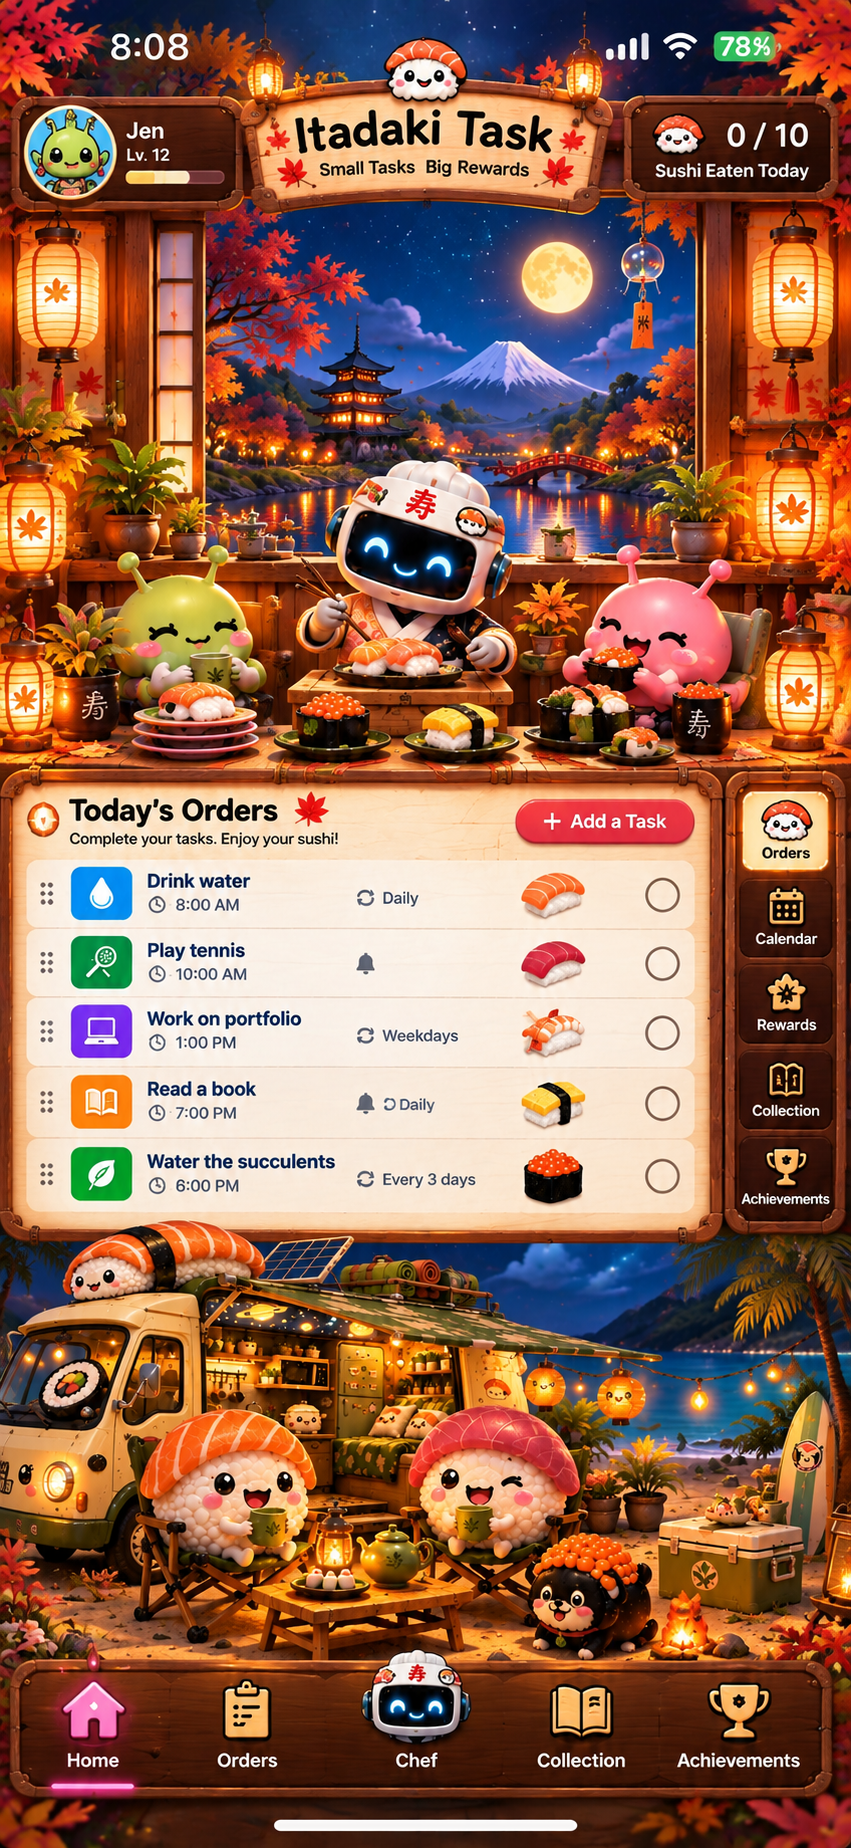
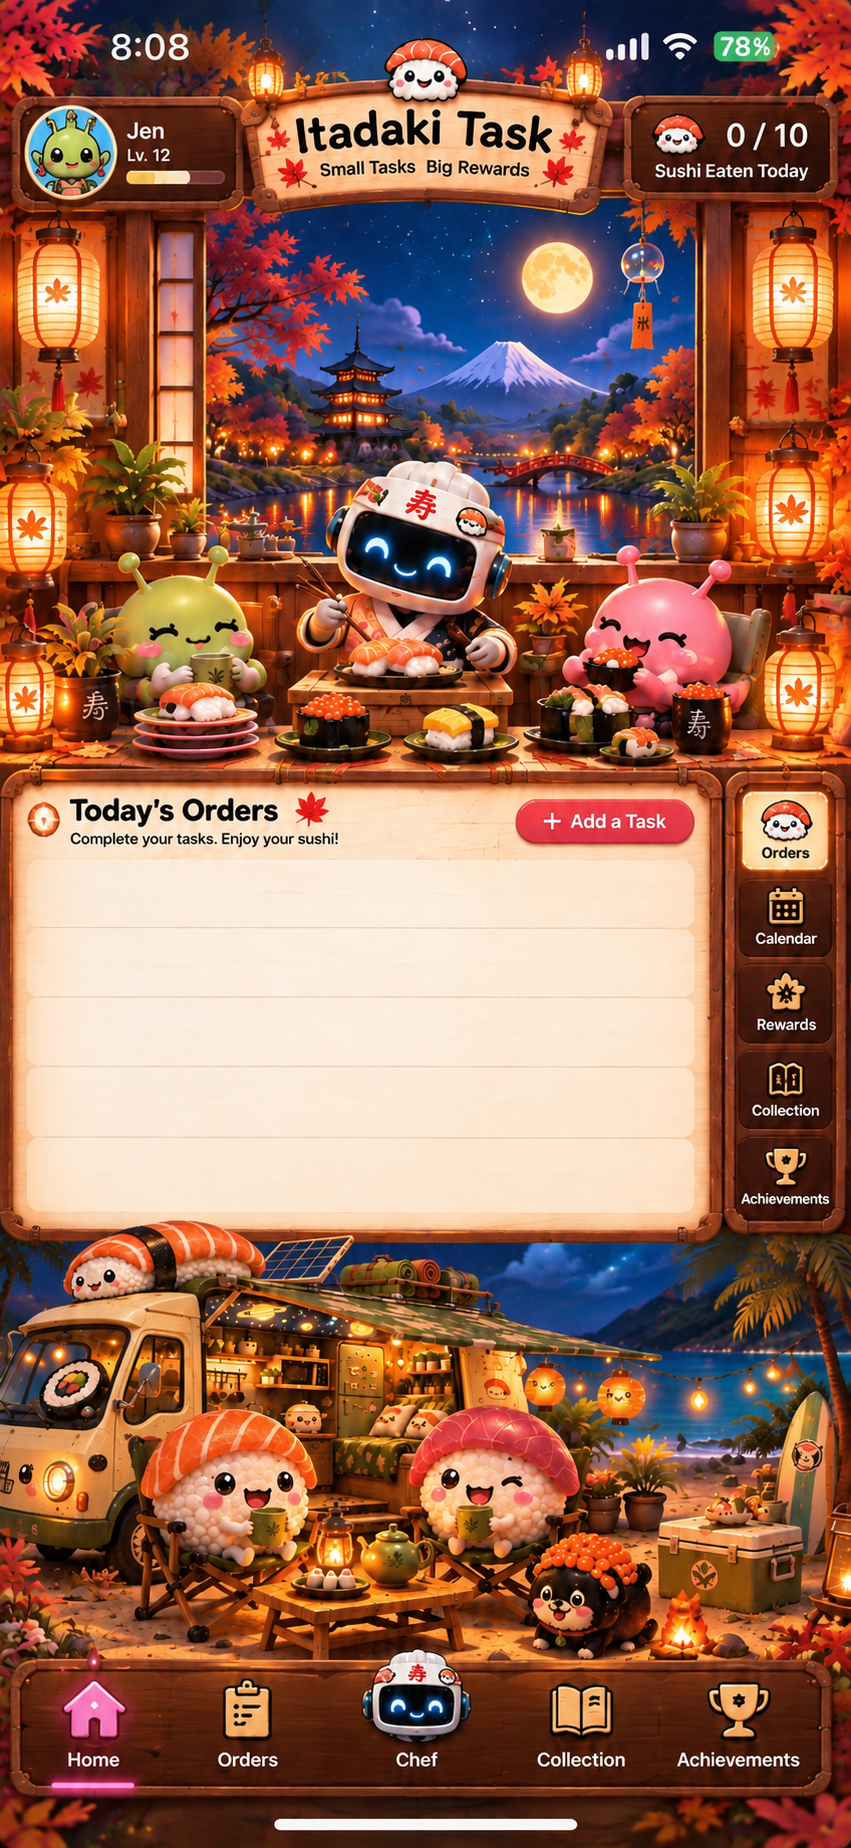
Clean night orders board background

diff --git a/ItadakiTask/ContentView.swift b/ItadakiTask/ContentView.swift
@@ -351,11 +351,19 @@ struct ContentView: View {
     private func loadTasks() {
         guard let data = storedTasks.data(using: .utf8),
               let decoded = try? JSONDecoder().decode([SushiTask].self, from: data) else {
-            tasks = SampleData.tasks
+            tasks = []
             saveTasks()
             return
         }
-        tasks = decoded
+        tasks = isLegacySampleSeed(decoded) ? [] : decoded
+        if tasks.count != decoded.count {
+            saveTasks()
+        }
+    }
+
+    private func isLegacySampleSeed(_ decoded: [SushiTask]) -> Bool {
+        let sampleTitles = Set(["Drink water", "Play tennis", "Work on portfolio", "Read a book"])
+        return decoded.count == sampleTitles.count && Set(decoded.map(\.title)) == sampleTitles
     }
 
     private func resetMealIfNeeded() {
@@ -1018,21 +1026,6 @@ struct AssetImage: View {
                     .foregroundStyle(.white)
             }
         }
-    }
-}
-
-enum SampleData {
-    static var tasks: [SushiTask] {
-        [
-            SushiTask(title: "Drink water", category: .health, dueDate: hour(8)),
-            SushiTask(title: "Play tennis", category: .sports, dueDate: hour(10)),
-            SushiTask(title: "Work on portfolio", category: .work, dueDate: hour(13)),
-            SushiTask(title: "Read a book", category: .learning, dueDate: hour(19))
-        ]
-    }
-
-    private static func hour(_ hour: Int) -> Date {
-        Calendar.current.date(bySettingHour: hour, minute: 0, second: 0, of: .now) ?? .now
     }
 }
 
